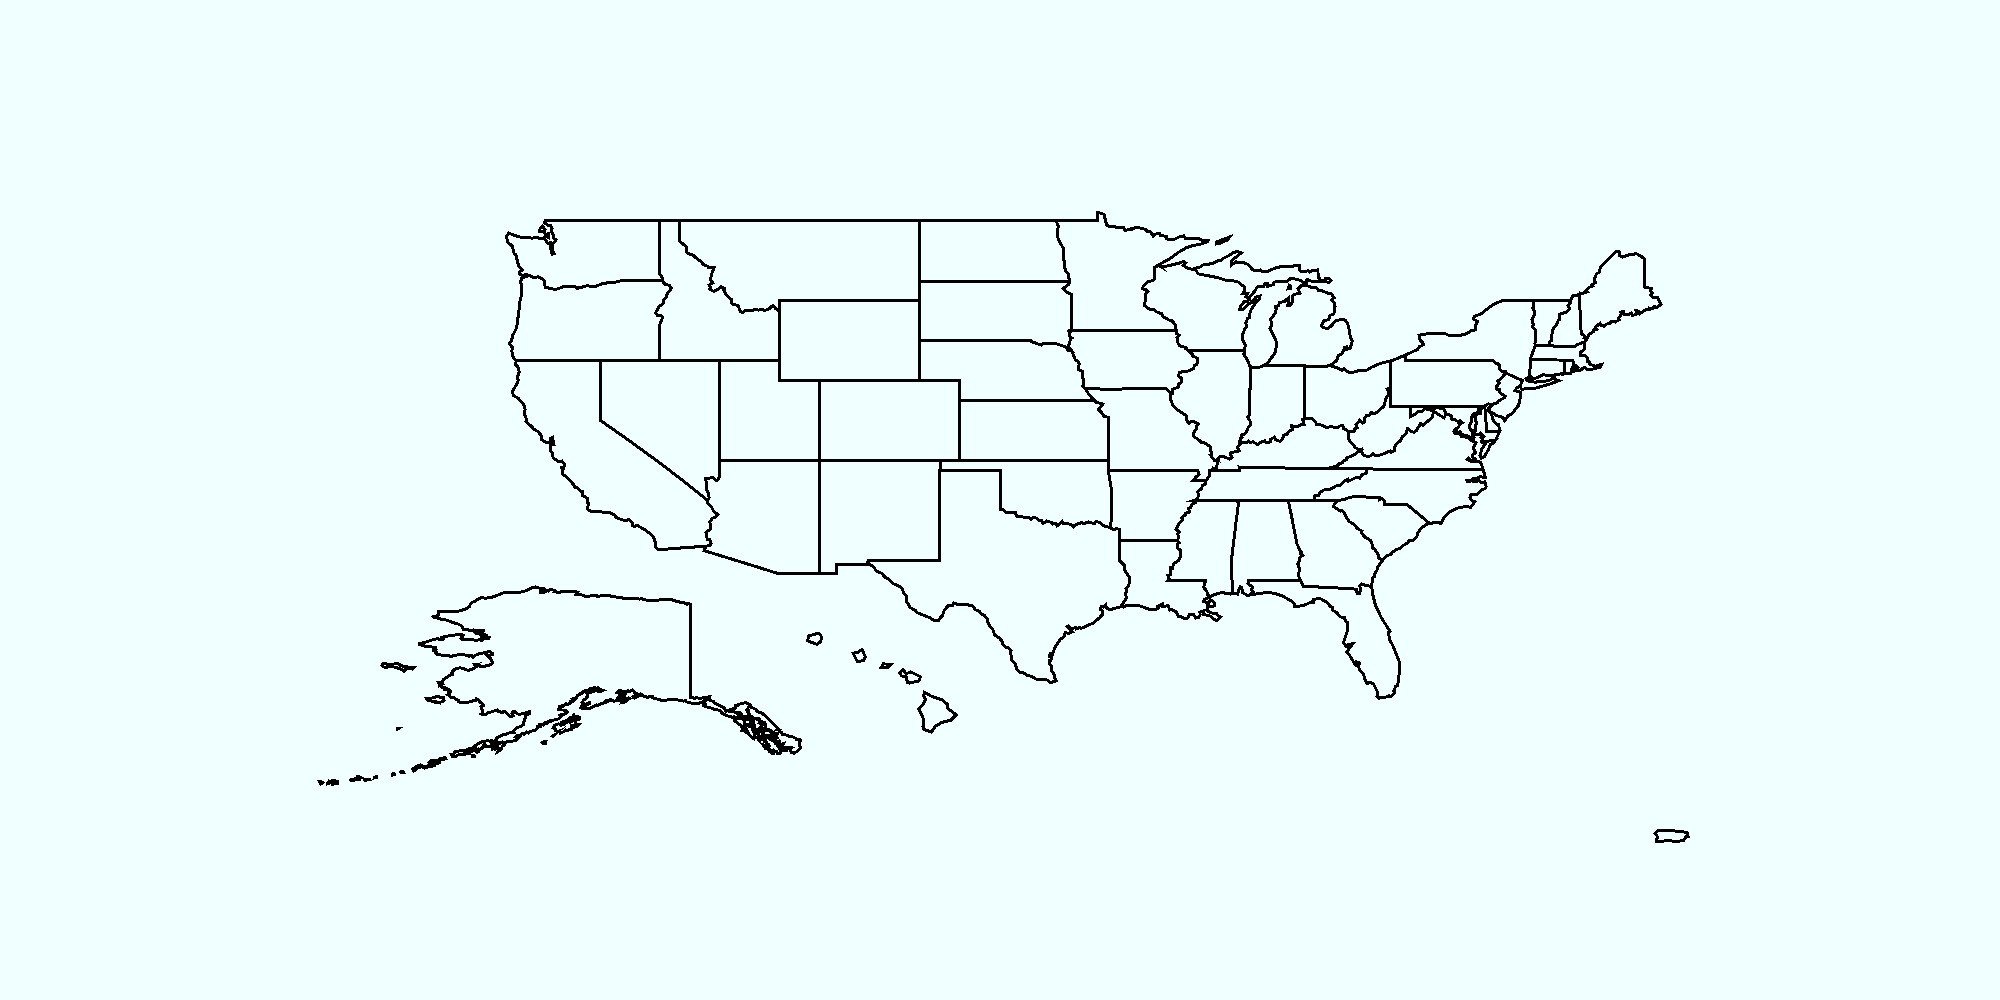
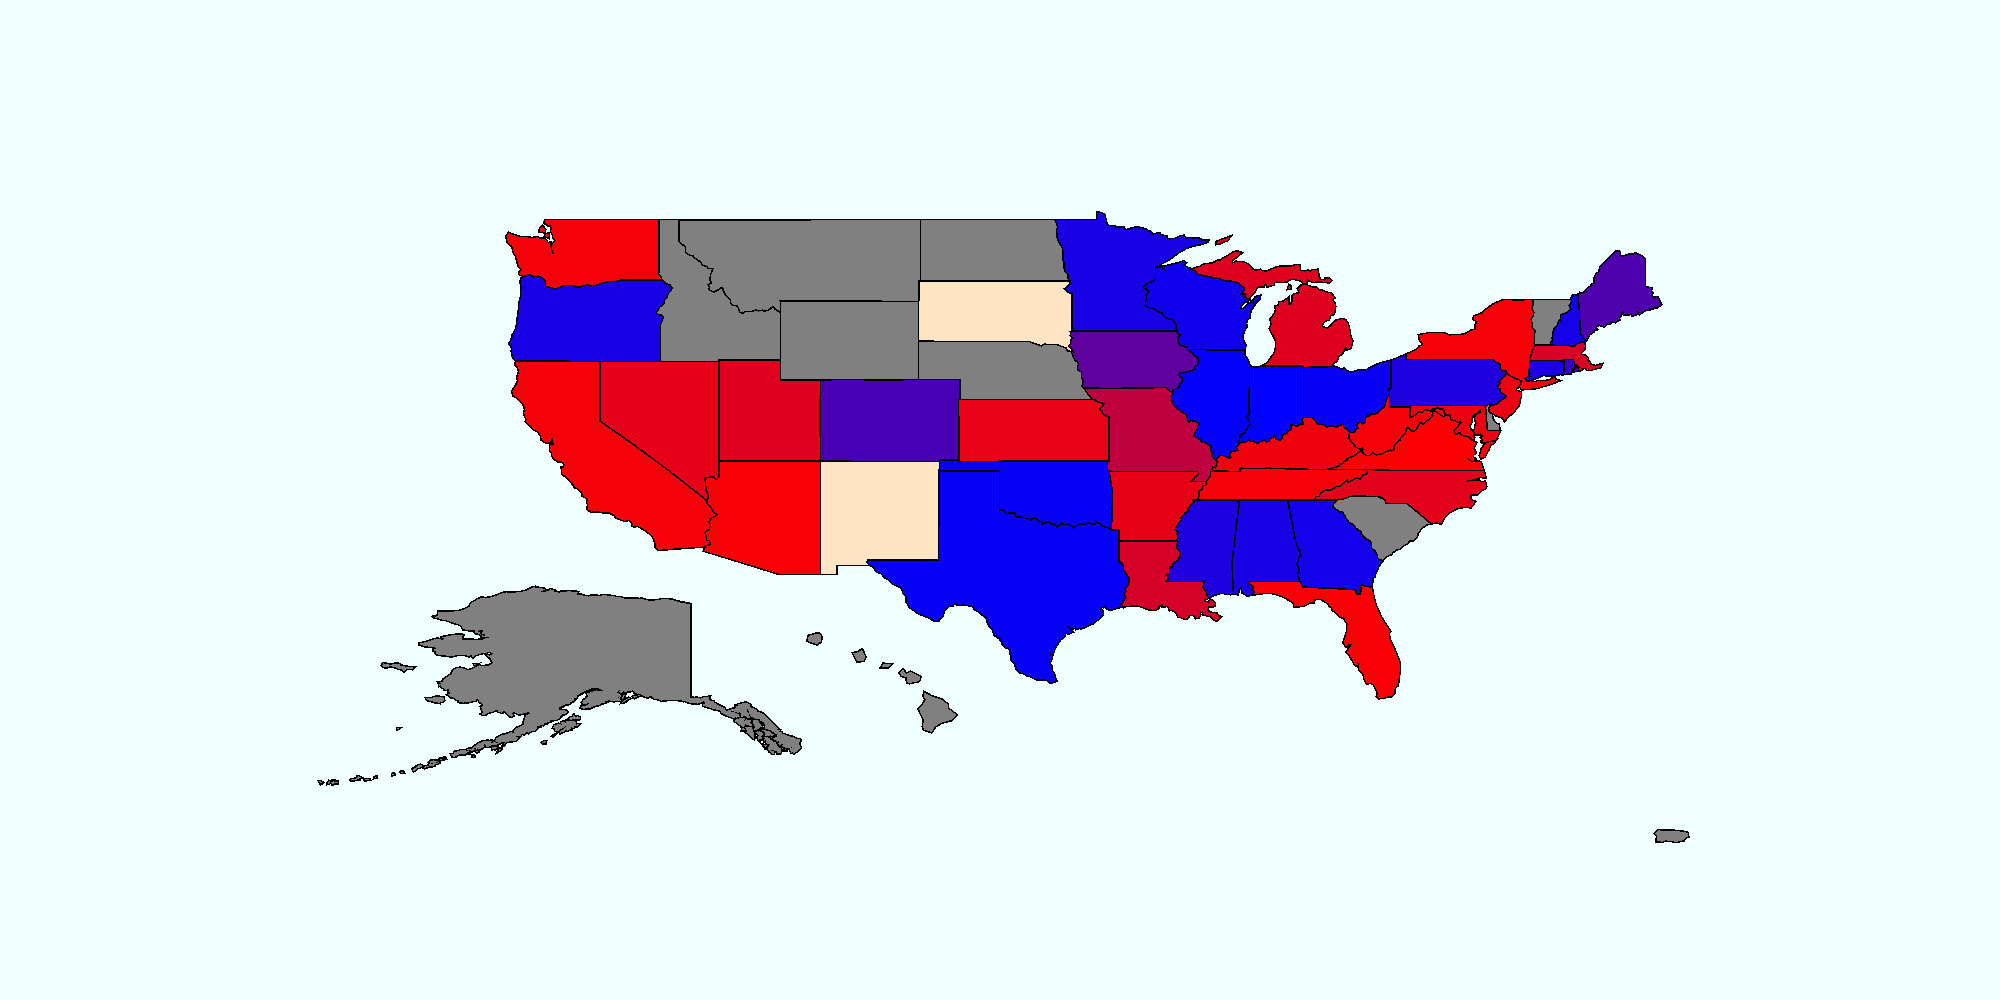
completed drawing with colors

diff --git a/Lab_1_Twitter_trends/MapOfStates.cs b/Lab_1_Twitter_trends/MapOfStates.cs
@@ -1,5 +1,4 @@
 using System.Drawing;
-using System.Drawing.Drawing2D;
 using System.Drawing.Imaging;
 
 
@@ -54,8 +53,36 @@ public class MapOfStates
 
                         pointsInPolygon.Add(point);
                     }
+
+                    AssigningTheColorsOfTheStatesOnTheMap temp = new AssigningTheColorsOfTheStatesOnTheMap();
+
+                    Dictionary<string, double?> emotionality = temp.CalculateAverageEmotionalityOfTweet();
+
+                    Color color = Color.Aquamarine;
+                    if (emotionality[pair.Key] == null)
+                    {
+                        color = Color.Gray;
+                    }
+                    if (emotionality[pair.Key] > 0 && emotionality[pair.Key] != null)
+                    {
+                        color = Color.FromArgb((int)(255-255 * emotionality[pair.Key]), 1, (int)(255 * emotionality[pair.Key])!);
+                    }
+
+                    if (emotionality[pair.Key] < 0 && emotionality[pair.Key] != null)
+                    {
+                        color = Color.FromArgb((int)(-255 * emotionality[pair.Key])!, 1, (int)(255+255 * emotionality[pair.Key]));
+                    }
+                    
+                    if (emotionality[pair.Key] == 0 && emotionality[pair.Key] != null)
+                    {
+                        color = Color.Bisque;
+                    }
+                    
+                    SolidBrush brush = new SolidBrush(color);
                     
                     graphics.DrawPolygon(pen, pointsInPolygon.ToArray());
+                    graphics.FillPolygon(brush, pointsInPolygon.ToArray());
+                    
                 }
             }
         }

diff --git a/Lab_1_Twitter_trends/AssigningTheColorsOfTheStatesOnTheMap.cs b/Lab_1_Twitter_trends/AssigningTheColorsOfTheStatesOnTheMap.cs
@@ -1,0 +1,43 @@
+namespace Lab_1_Twitter_trends;
+
+public class AssigningTheColorsOfTheStatesOnTheMap
+{
+    public Dictionary<string, double?> CalculateAverageEmotionalityOfTweet()
+    {
+        LinkingTweetsToStates temp = new LinkingTweetsToStates();
+
+        Dictionary<string, List<Tweet>> tweetsOfStates = temp.SearchStateOfTweet();
+
+        Dictionary<string, double?> averageEmotionalMean = new Dictionary<string, double?>();
+
+        double? average;
+        double? sumEmotion;
+        
+        foreach (var pair in tweetsOfStates)
+        {
+            average = 0.0;
+            sumEmotion = 0.0;
+            
+            foreach (var VARIABLE in pair.Value)
+            {
+                if (VARIABLE.emotionalParametr != null)
+                {
+                    sumEmotion += VARIABLE.emotionalParametr;
+                }
+            }
+
+            if (pair.Value.Count != 0)
+            {
+                average = sumEmotion / pair.Value.Count;
+            }
+            else
+            {
+                average = null;
+            }
+
+            averageEmotionalMean.Add(pair.Key, average);
+        }
+        
+        return averageEmotionalMean;
+    }
+}

diff --git a/Lab_1_Twitter_trends/LinkingTweetsToStates.cs b/Lab_1_Twitter_trends/LinkingTweetsToStates.cs
@@ -25,7 +25,7 @@ public class LinkingTweetsToStates
     }
     
 
-    public static bool IsPointInPolygon(List<PointF> polygon, PointF testPoint)
+    private static bool IsPointInPolygon(List<PointF> polygon, PointF testPoint)
     {
         bool result = false;
         int j = polygon.Count - 1;
@@ -46,7 +46,7 @@ public class LinkingTweetsToStates
         return result;
     }
     
-    public Dictionary<string, List<Tweet>> SearchStateOfTweet() //коннект штатов и твитов
+    public Dictionary<string, List<Tweet>> SearchStateOfTweet() 
     {
      
         Dictionary<string, List<Tweet>> resultDictionary = CreateDictionaryOfTweetsInPolygons();
@@ -94,6 +94,7 @@ public class LinkingTweetsToStates
                     if (result)
                     {
                         resultDictionary[pair.Key].Add(tweets[i]);
+                        tweets[i].state = pair.Key;
      
                         break;
                     }

diff --git a/Lab_1_Twitter_trends/Program.cs b/Lab_1_Twitter_trends/Program.cs
@@ -33,6 +33,7 @@ Console.WriteLine(tm["'hood"]);
 
 
 
+/*
 AnalazingOfEmotionalityOfTweets temp = new AnalazingOfEmotionalityOfTweets();
 
 
@@ -46,14 +47,15 @@ for (int i = 0; i < tweets.Count; i++)
 {
     Console.WriteLine(i+1 + " === " + tweets[i].emotionalParametr);
 }
+*/
 
 /*JsonParse jf = new JsonParse();
 
 jf.ReadJsonFile();*/
 
-/*MapOfStates map = new MapOfStates();
+MapOfStates map = new MapOfStates();
 
-map.DrawningMap();*/
+map.DrawningMap();
 
 /*LinkingTweetsToStates temp = new LinkingTweetsToStates();
 

diff --git a/Lab_1_Twitter_trends/Tweet.cs b/Lab_1_Twitter_trends/Tweet.cs
@@ -1,10 +1,5 @@
 namespace Lab_1_Twitter_trends;
 
-
-using System.Diagnostics.Tracing;
-
-
-
 public class Tweet
 {
     public string massage { get; set; }
